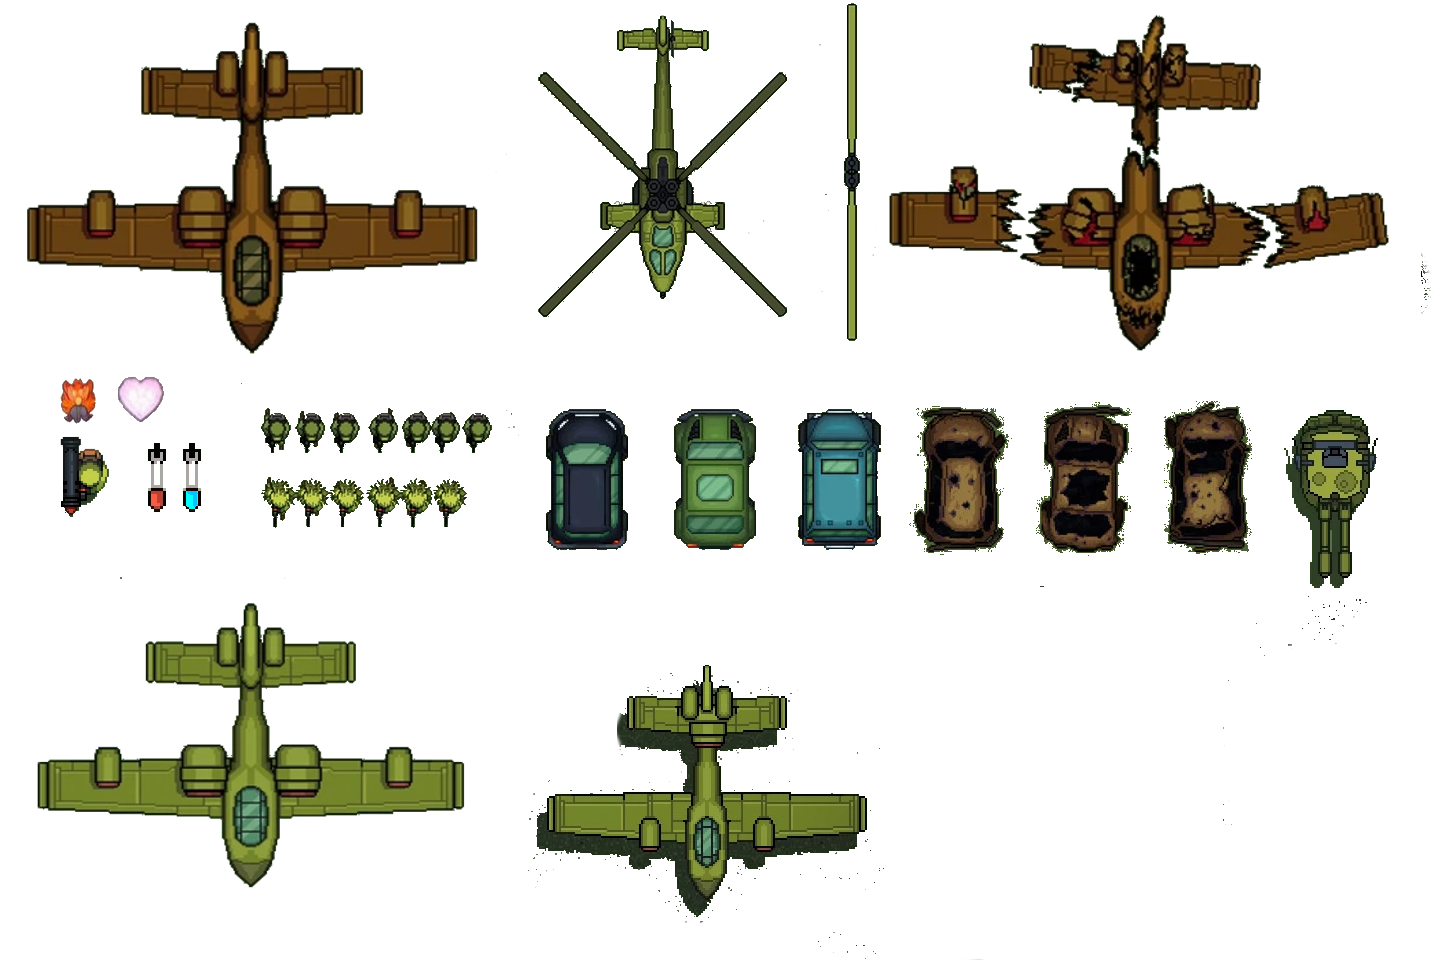
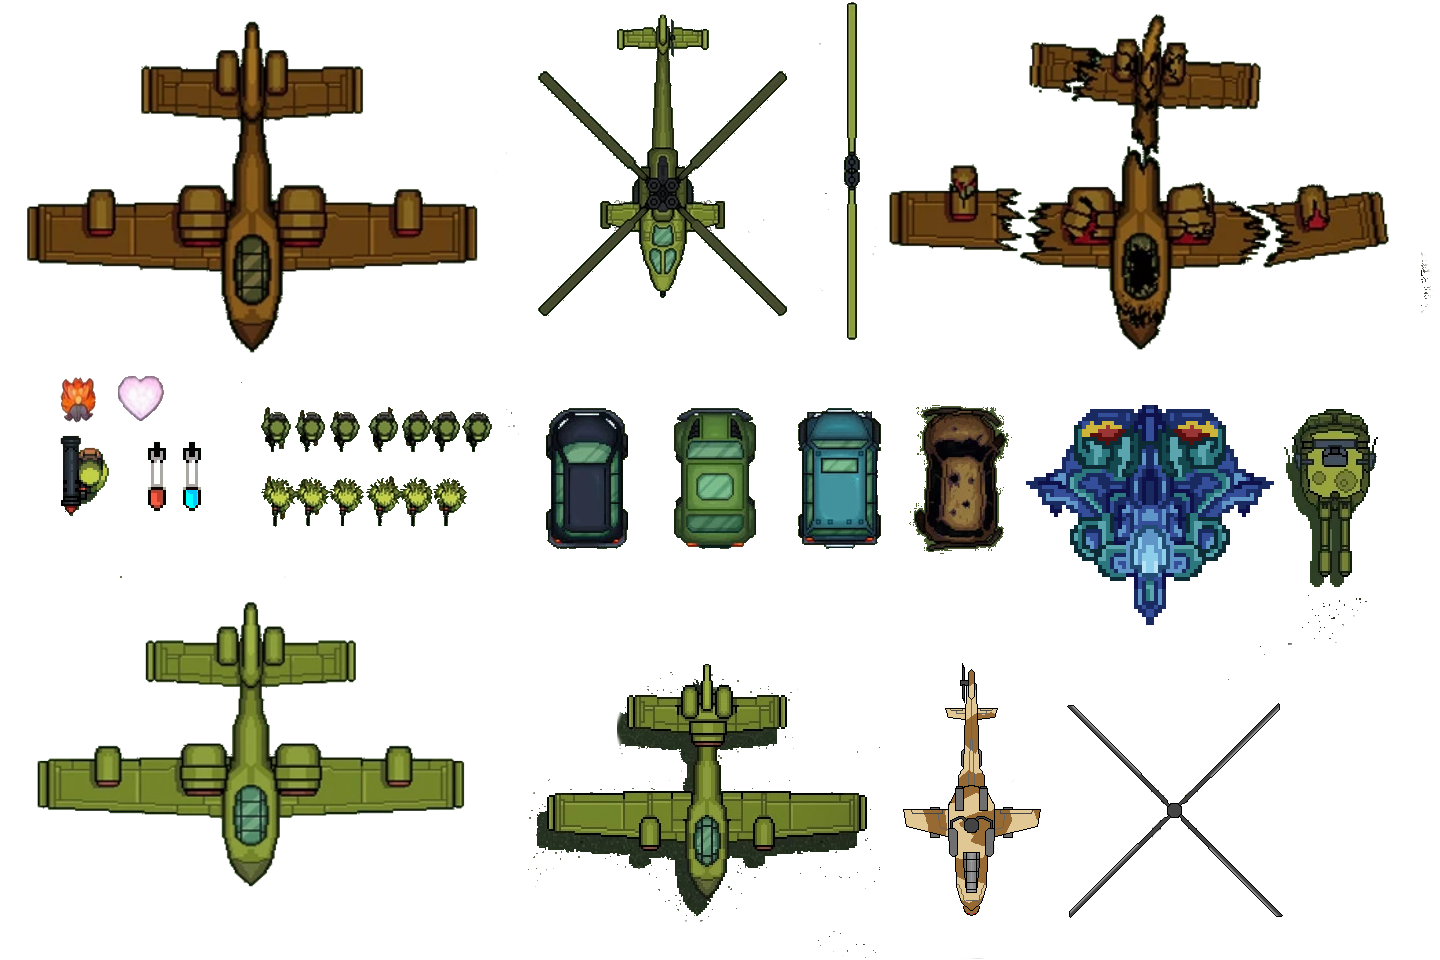
make the propellor move. change cheater into giora

diff --git a/website.js b/website.js
@@ -4,6 +4,18 @@ const ctx = canvas.getContext("2d");
 canvas.width = innerWidth - 20;
 canvas.height = innerHeight - 20;
 
+const setting = {
+	score: 0,
+	frame: 0,
+	speedGame: 30,  //The game will be updated every 50 ms.
+	lose: false,
+	theme : new Audio('./sound/battleThemeA_0.mp3'),
+	sound:false,
+	player:'',
+	enemy:'',
+}
+
+
 const divSolider = document.getElementById('divSolider');
 const soliders = [
 	{
@@ -39,17 +51,17 @@ const soliders = [
 		disadventages: ['אין אפשרות לפגוע במדויק', 'רק 60 שניות של הגנה']
 	},
 	{
-		code: 'cheater',
+		code: 'giora',
 		name: "גיורא משה",
 		desc: "גיורא הוא טייס אגדי. הוא חזר מהמתים כדי להוכיח שמוות זו לא סיבה לפרוש",
-		img: "../img/website/Giyora_Moshe.jpg",
+		img: "../img/website/Giora_Moshe.jpg",
 		adventages: ['הכול'],
 		disadventages: ['אין']
 	},
 
 ]
 for (let i = 0; i < soliders.length; i++) {
-	if (soliders[i].code === 'cheater') {
+	if (soliders[i].code === 'giora') {
 		divSolider.innerHTML += `<!--<a class="dropdown-item" onclick="changeCharacter(${i},true)">${soliders[i].name}</a> -->`
 		continue;
 	}
@@ -83,7 +95,7 @@ for (let i = 0; i < enemies.length; i++) {
 console.log(' ברכות, אתה מספיק חכם בשביל לפתוח את המסוף. תכניס דמות_סודית() בשביל לקבל את הדמות הסודית')
 
 function דמות_סודית() {
-	changeSol(4)
+	changeCharacter(4,ture)
 }
 
 function changeCharacter(index,player){
@@ -110,7 +122,7 @@ function changeCharacter(index,player){
 		if (soliders[index].code == 'roi') RoiInst.hidden = false;
 		else RoiInst.hidden = true;
 	}
-	name[player?'player':'enemy'] = list[index].code
+	setting[player?'player':'enemy'] = list[index].code
 }
 changeCharacter(0,true)
 changeCharacter(0,false)
@@ -120,16 +132,6 @@ Math.randomBetween = (min, max) => {
 	return Math.floor(Math.random() * (max - min + 1)) + min;
 }
 
-const setting = {
-	score: 0,
-	frame: 0,
-	speedGame: 30,  //The game will be updated every 50 ms.
-	lose: false,
-	theme : new Audio('./sound/battleThemeA_0.mp3'),
-	sound:false,
-	player:'',
-	enemy:'',
-}
 
 setting.theme.muted = true;
 

diff --git a/classes/Player.js b/classes/Player.js
@@ -7,11 +7,14 @@ import {player} from '../index.js';
 export default class Player extends Entity {
 	constructor(x, y, name) {
 		if (name === 'noah') {
-			super(x, y, 75, 75, sprites.noah,0)
-			this.speed = 12
+			super(x, y, 50, 80, sprites.noah,0)
+			this.speed = 11
 			this.bullets = 150;
+			this.rotateAmount = 0.2
 			this.hp = 4;
-			this.rotateAmount = 0.1
+			this.rotateAmount = 0.1;
+
+			this.propeller = new Entity(x,y,70,70,sprites.propeller,0) 
 		} else if (name === 'saar') {
 			super(x, y, 100, 100, sprites.saar,0)
 			this.speed = 8;
@@ -32,7 +35,7 @@ export default class Player extends Entity {
 			this.hp = 5;
 			this.safe = false;
 		} else {
-			super(x, y, 75, 75, sprites.cheater,0)
+			super(x, y, 75, 75, sprites.giora,0)
 			this.speed = 10;
 			this.bullets = 1;
 			this.rotateAmount = 0.05
@@ -67,7 +70,7 @@ export default class Player extends Entity {
 						this.angle + ((Math.PI * 2) / 10) * i)
 				}
 				break;
-			case 'cheater':
+			case 'giora':
 				for (let i = -5; i < 5; i++) {
 					Bullet.create(player,200,
 						this.angle + ((Math.PI * 2) / 10) * i)
@@ -99,12 +102,18 @@ export default class Player extends Entity {
 			ctx.fillText("❤", canvas.width - 50 * i, 70)
 		ctx.fillText("🔥" + Math.ceil(this.bullets), canvas.width - 70, 120)
 
-		if (this.name == 'roi')
+		if (this.name == 'roi'){
 			if (this.safe) {
 				ctx.fillText('אתה בטוח', canvas.width - 70, 30)
 				this.bullets -= 1 / 33;
 				if (this.bullets <= 0) this.safe = false;
 			}
+		}else if(this.name == 'noah'){
+			this.propeller.angle += 0.2;
+			this.propeller.x = -this.propeller.width /2 + this.x + this.width / 2;
+			this.propeller.y = -this.propeller.height /2 + this.y + this.height / 2;
+			this.propeller.draw(ctx);
+		}
 
 		this.angle += this.rotate;
 		this.draw(ctx);
@@ -119,7 +128,7 @@ export default class Player extends Entity {
 		} else {
 			Explosion.create(this)
 		}
-		if (this.name != 'cheater') this.hp--;
+		if (this.name != 'giora') this.hp--;
 		if (this.hp <= 0) setting.lose = true;
 
 	}

diff --git a/classes/Bullet.js b/classes/Bullet.js
@@ -50,7 +50,7 @@ export default class Bullet extends Entity{
                         this.delete();
                         building.delete();
                     }
-                    if(this.distance(nearest) > this.distance(building) &&(player.name === 'saar'|| player.name === 'cheater')){
+                    if(this.distance(nearest) > this.distance(building) &&(player.name === 'saar'|| player.name === 'giora')){
                         this.angle = this.desireAng(building) 
                         nearest = building;
                     }
@@ -61,7 +61,7 @@ export default class Bullet extends Entity{
                         this.delete();
                         baz.delete();
                     }
-                    if(this.distance(nearest) > this.distance(baz) &&(player.name === 'saar'|| player.name === 'cheater')){
+                    if(this.distance(nearest) > this.distance(baz) &&(player.name === 'saar'|| player.name === 'giora')){
                         this.angle = this.desireAng(baz) 
                         nearest = baz;
                     }
@@ -72,7 +72,7 @@ export default class Bullet extends Entity{
                         this.delete();
                         car.delete();
                     }
-                    if(this.distance(nearest) > this.distance(car) && (player.name === 'saar' || player.name === 'cheater')){
+                    if(this.distance(nearest) > this.distance(car) && (player.name === 'saar' || player.name === 'giora')){
                         this.angle = this.desireAng(car) 
                         nearest = car;
                     }

diff --git a/sprites.js b/sprites.js
@@ -36,12 +36,19 @@ export default {
         height:228,
         img:'../img/destroyed.png'
     },
-    noah:{
-        x:538,
-        y:15,
-        width:249,
-        height:302,
+    propeller:{
+        x:1067,
+        y:703,
+        width: 216,
+        height: 215,
         img:'../img/jets.png'
+    },
+    noah:{
+        x:903,
+        y:663,
+        width: 138,
+        height: 253,
+        img: '../img/jets.png'
     },
     ido:{
         x: 528, 
@@ -64,14 +71,21 @@ export default {
         height: 332,
         img:'../img/jets.png'
     },
-    cheater:{
+    giora:{
         x: 889, 
         y:15,
 	    width: 500,
 	    height: 336,
         img:'../img/jets.png'
     },
+    yedidya:{
+        x:1026,
+        y:405,
+        width: 248,
+        height: 220,
+        img:'../img/jets.png'
 
+    },
     bullet:{
         x: 148, 
         y:443,

diff --git a/index.js b/index.js
@@ -55,8 +55,8 @@ const loop = setInterval(() => {
 	if (setting.frame % 500 == 0)
 			Item.create((Math.randomBetween(0,1) ===  0) ? 'heart':'bullet')
 
-	Item.array.forEach(it => { it.update(ctx); });
 	Building.array.forEach(building => { building.update(ctx); })
+	Item.array.forEach(it => { it.update(ctx); });
 	Bullet.array.forEach(bullet => { bullet.update(ctx); });
 	Cannon.array.forEach(can => { can.update(ctx); })
 	Car.array.forEach(building => { building.update(ctx); })
